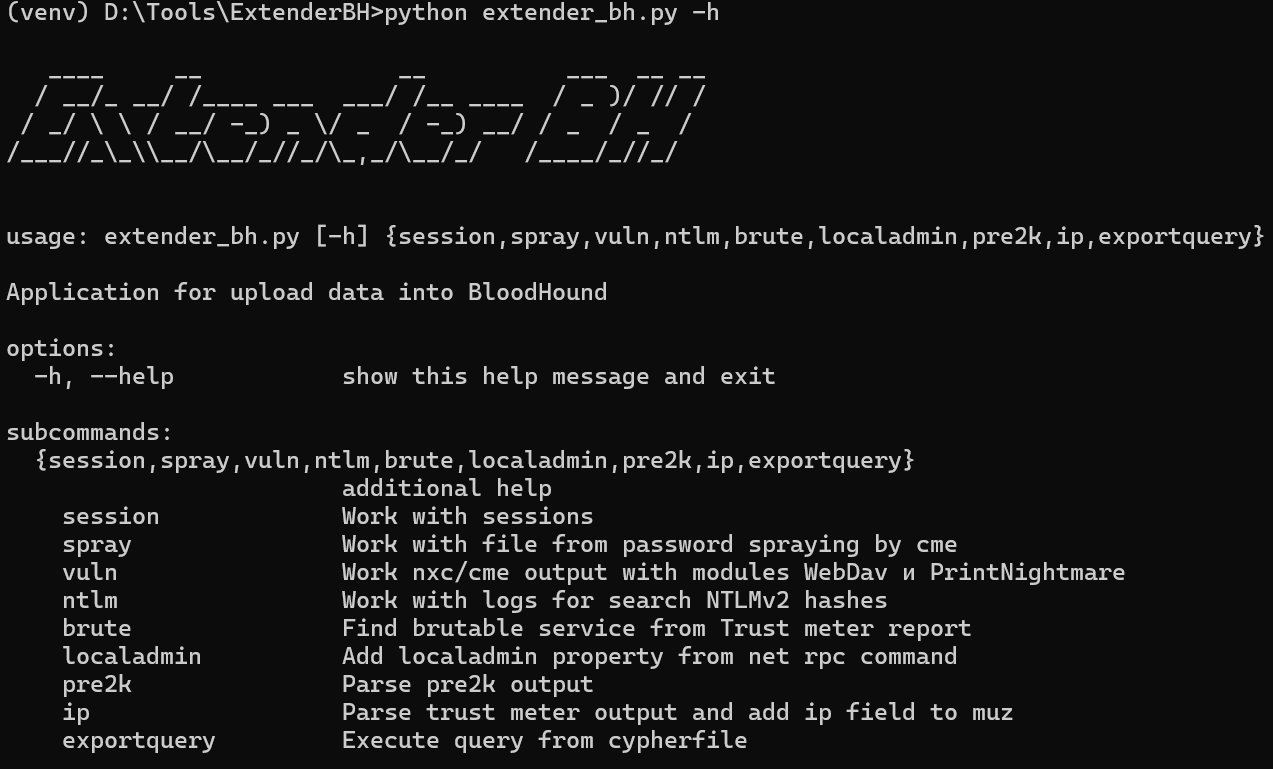
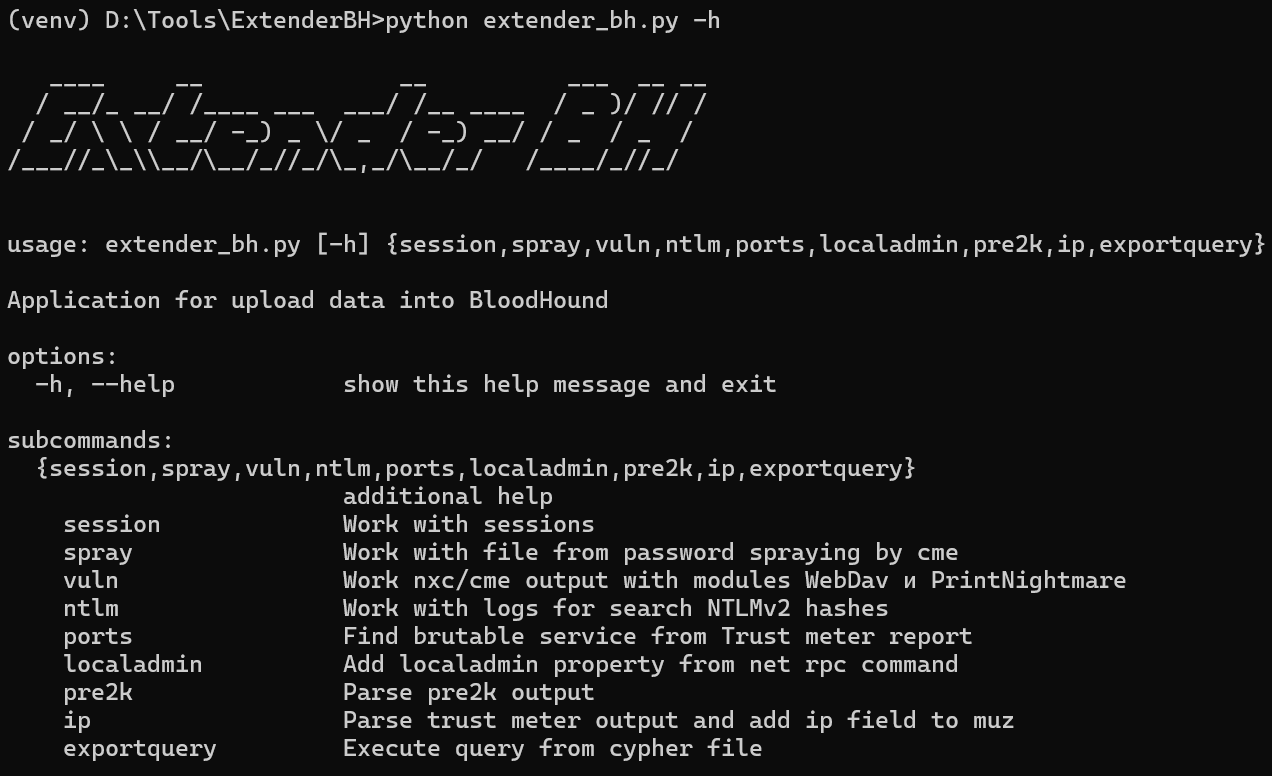
end readme, rename brute module to ports

diff --git a/extender_bh.py b/extender_bh.py
@@ -3,7 +3,7 @@ import sys
 from modules.session import session
 from modules.spray import spray
 from modules.ntlm import ntlm
-from modules.brute import brute
+from modules.ports import ports
 from modules.localadmin import localadmin
 from modules.pre2k import pre2k
 from modules.ip import ip
@@ -47,14 +47,14 @@ def arg_parse():
     ntlm_parser.set_defaults(func=ntlm)
     #__End ntlm part__
 
-    #__Start brute part__
-    brute_parser = subparser.add_parser('brute', help="Find brutable service from Trust meter report")
-    brute_parser.add_argument('-tm','--trust_meter', help="Trust meter json or csv filename", required=True)
-    brute_parser.add_argument('-o','--output', help="Output filename")
-    brute_parser.add_argument('-p','--ports', help="Searching for ports. By default: 21, 22, 23, 1433, 3306, 5432, 5900", default=['21', '22', '23', '1433', '3306', '5432', '5900'], nargs='+')
+    #__Start ports part__
+    ports_parser = subparser.add_parser('ports', help="Find brutable service from Trust meter report")
+    ports_parser.add_argument('-tm','--trust_meter', help="Trust meter json or csv filename", required=True)
+    ports_parser.add_argument('-o','--output', help="Output filename")
+    ports_parser.add_argument('-p','--ports', help="Searching for ports. By default: 21, 22, 23, 1433, 3306, 5432, 5900", default=['21', '22', '23', '1433', '3306', '5432', '5900'], nargs='+')
 
-    brute_parser.set_defaults(func=brute)
-    #__End brute part__
+    ports_parser.set_defaults(func=ports)
+    #__End ports part__
 
     #__Start localadmin part__
     localadmin_parser = subparser.add_parser('localadmin', help="Add localadmin property from net rpc command"  )
@@ -82,7 +82,7 @@ def arg_parse():
     #__End ip part__
 
     #__Start exportquery part__
-    exportquery_parser = subparser.add_parser('exportquery', help="Execute query from cypherfile")
+    exportquery_parser = subparser.add_parser('exportquery', help="Execute query from cypher file")
     exportquery_parser.add_argument('-i','--input', help="Cypher filename", required=True)
     exportquery_parser.add_argument('-t','--threads', help="Count of threads", default=8)
 
@@ -91,7 +91,7 @@ def arg_parse():
     #__End exportquery part__
 
     #__Start neo4j part__
-    modules = [session_parser, spray_parser, ntlm_parser, brute_parser, localadmin_parser , pre2k_parser, ip_parser, vuln_parser, exportquery_parser]
+    modules = [session_parser, spray_parser, ntlm_parser, ports_parser, localadmin_parser , pre2k_parser, ip_parser, vuln_parser, exportquery_parser]
     for module in modules:
         neo4j_goup = module.add_argument_group('neo4j')
         neo4j_goup.add_argument('-na', '--neo4j_auth', help="Auto use neo4j request for result", action='store_true' )

diff --git a/modules/ports.py b/modules/ports.py
@@ -4,7 +4,7 @@ import os
 import pandas as pd
 from modules.neo4jconn import neo4j_db
 
-def brute(args):
+def ports(args):
     if args.neo4j_auth:
         if not args.neo4j_login:
             print("[!] neo4j auth mode required --neo4j_login or -nl flag")
@@ -55,8 +55,8 @@ def brute(args):
                 continue
 
             found_port_str = ', '.join(found_port)
-            print(f"[+] For {muz['fqdn']} found {len(found_port)} brutable service on {found_port_str}")
-            query = f'MATCH (c:Computer) WHERE c.name =~ "(?i){muz["fqdn"]}.*" SET c.BrutableService = {found_port};\n'
+            print(f"[+] For {muz['fqdn']} add {len(found_port)} ports: {found_port_str}")
+            query = f'MATCH (c:Computer) WHERE c.name =~ "(?i){muz["fqdn"]}.*" SET c.Ports = {found_port};\n'
 
             if args.neo4j_auth and not_error:
                     not_error = NJ.execute_query(query)
@@ -81,8 +81,8 @@ def brute(args):
                 continue
 
             found_port_str = ', '.join(found_port)
-            print(f"[+] For {row['FQDN']} found {len(found_port)} brutable service on {found_port_str}")
-            query = f'MATCH (c:Computer) WHERE c.name =~ "(?i){row["FQDN"]}.*" SET c.BrutableService = {found_port};\n'
+            print(f"[+] For {row['FQDN']} add {len(found_port)} ports: {found_port_str}")
+            query = f'MATCH (c:Computer) WHERE c.name =~ "(?i){row["FQDN"]}.*" SET c.Ports = {found_port};\n'
 
             if args.neo4j_auth and not_error:
                     not_error = NJ.execute_query(query)
@@ -95,5 +95,4 @@ def brute(args):
             print("Data upload in neo4j succesfully")
         else:
             print("Couldn't upload data, you can do it manualy")
-    print(f"\n{count} computers has brutable service")
     print(f"Out filename: {output_filename}")

diff --git a/README.md b/README.md
@@ -20,7 +20,7 @@ python extender_bh.py -h
 Ссылка до базы данных neo4j, а также имя базы данных устанавливается по умолчанию, однако если есть необходимость в изменении этих параметров, можно задать свои значения.
 ## Модуль session
 ![](img/session_help.png)
-Обрабатывает результат работы скрипта [Get-LoggedOn.py](https://gist.icoder.workers.dev/GeisericII/6849bc86620c7a764d88502df5187bd0), вывод которого, видоизменен для упрощения обработки. Измененный скрипт находится в папке `additional_scripts`. Пример входного файла в папке `examples`.
+Обрабатывает результат работы скрипта [Get-LoggedOn.py](https://gist.icoder.workers.dev/GeisericII/6849bc86620c7a764d88502df5187bd0), вывод которого, видоизменен для упрощения обработки. Измененный скрипт находится в папке `additional_scripts`. 
 Помимо этого использует результат работы [TrustMeter](https://zeronetworks.com/platform/trustmeter), для перевода IP адресов в NetBIOS имена. Походят как результаты в формате `json`, так и в `csv`.
 Пример команды для запуска модуля:
 ```
@@ -37,4 +37,83 @@ nxc smb <dc-ip> -u user.txt -p <pass> --continue-on-succes | tee spray.txt
 Пример команды для запуска модуля:
 ```
 python extender_bh.py spray -i spray.txt -na -nl neo4j -np 1234
+```
+## Модуль vuln
+![](img/vuln_help.png)
+Обрабатывает результат сканирования уязвимостей с помощью NetEXEC, с модулями `WebDav` и `printnightmare`. Уязвимые хосты помечаются как захваченные, так же добавляется атрибут `Vuln` указывающий на тип уязвимости.
+Пример команды для поиска WebDav:
+```
+nxc smb scope.txt -u user -p pass -M webdav | grep -ai WebClient | tee webdav.txt
+```
+Пример команды для поиска PrintNigtmare:
+```
+nxc smb scope.txt -u user -p pass -M printnightmare | grep -ai ly4k | grep -avi ')' | tee pnm.txt
+```
+Пример команды для запуска модуля:
+```
+python extender_bh.py vuln -i webdav.txt -na -nl neo4j -np 1234
+```
+## Модуль ntlm
+![](img/ntlm_help.png)
+Обрабатывает файл логов `Responder`, с добавлением полей `NetNTLMv1` или `NetNTLMv2` и количества раз встречающихся в логах хэшей пользователей.
+Пример команды для запуска модуля:
+```
+python extender_bh ntlm -i responder.log -na -nl neo4j -np 1234
+```
+## Модуль ports
+![](img/ports_help.png)
+Обрабатывает результат работы Trust Meter и добавляет открытые порты в атрибут `ports`. Однако для сокращения времени работы, по умолчанию проверяются не все порты а только наиболее распространённые.
+Пример команды для запуска модуля:
+```
+python extender_bh ports -tm '.\test.local Report.json' -na -nl neo4j -np 1234
+```
+## Модуль localadmin
+![](img/localadmin_help.png)
+Обрабатывает результат работы команды `net rpc group member`, с целью добавления новых ребер `AdminTo` и получения списка локальных администраторов. 
+Процесс запуска команды на несколько систем, автоматизирован в bash скрипте `localadmin.sh` в папке `additional_scripts`
+Скрипт имеет следующие аргументы:
+![](img/script_help.png)
+Пример команды для запуска скрипта:
+```
+./localadmin.sh -d test.local -u user -p pass -i scope.txt
+```
+Пример команды для запуска модуля:
+```
+python extender_bh -i localadmin.txt -tm '.\test.local Report.json' -na -nl neo4j -np 1234
+```
+## Модуль pre2k
+![](img/pre2k_help.png)
+Обрабатывает результат работы инструмента [pre2k](https://github.com/garrettfoster13/pre2k), помечая найденные учетные записи как `Owned` и устанавливая значения поля `ClearTextPassword`
+Пример команды для запуска модуля:
+```
+python extender_bh pre2k -i pre2k.txt -na -nl neo4j -np 1234
+```
+## Модуль ip
+![](img/ip_help.png)
+Обрабатывает результат работы `Trust Meter`, добавляя атрибут IP, для всех машинных учетных записей. Таким образов, применив этот модуль вначале, отпадает необходимость в использовании флага `-tm`, для всех модулей.
+Пример команды для запуска модуля:
+```
+python extender_bh -tm '.\test.local Report.json' -na -nl neo4j -np 1234
+```
+## Модуль exportquery
+![](img/exportquery_help.png)
+Позволяет экспортировать в `.cypher`, полученные в результате работы модулей. Необходимо если не использовался флаг `-na`, либо произошла какая-то ошибка при запросах в базу neo4j.
+Параметр threads позволяет управлять количеством потоков.
+Пример команды для запуска модуля:
+```
+python extender_bh.py exportquery -i vuln_extended_bh.cypher -na -nl neo4j -np 1234
+```
+# Customquery
+Помимо прочего с учетом дополнительных полей были разработаны ряд пользовательских запросов. Чтобы добавить их в свой BloodHound, необходимо изменить существующий файл `customqueries.json`
+## Расположение на Linux
+```sh
+locate customqueries.json
+```
+Если установка происходила от имени пользователя root
+```
+/root/.config/bloodhound/customqueries.json
+```
+## Расположение на Windows
+```
+C:\Users\<User>\AppData\Roaming\bloodhound\customqueries.json
 ```
